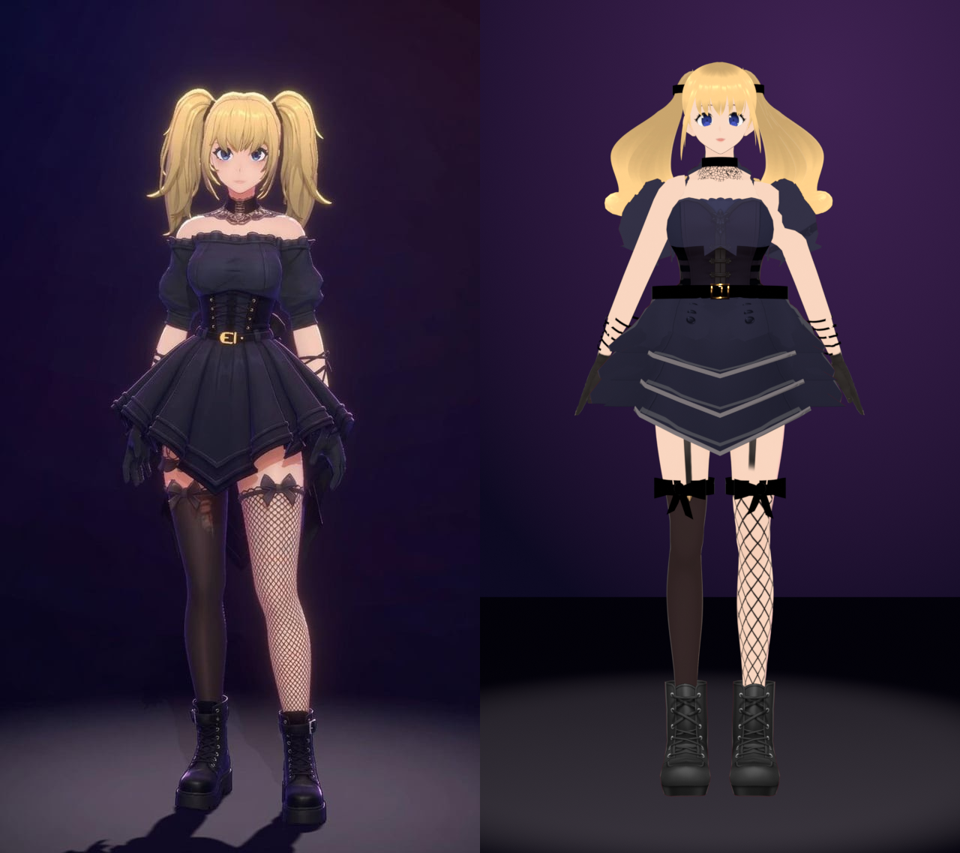
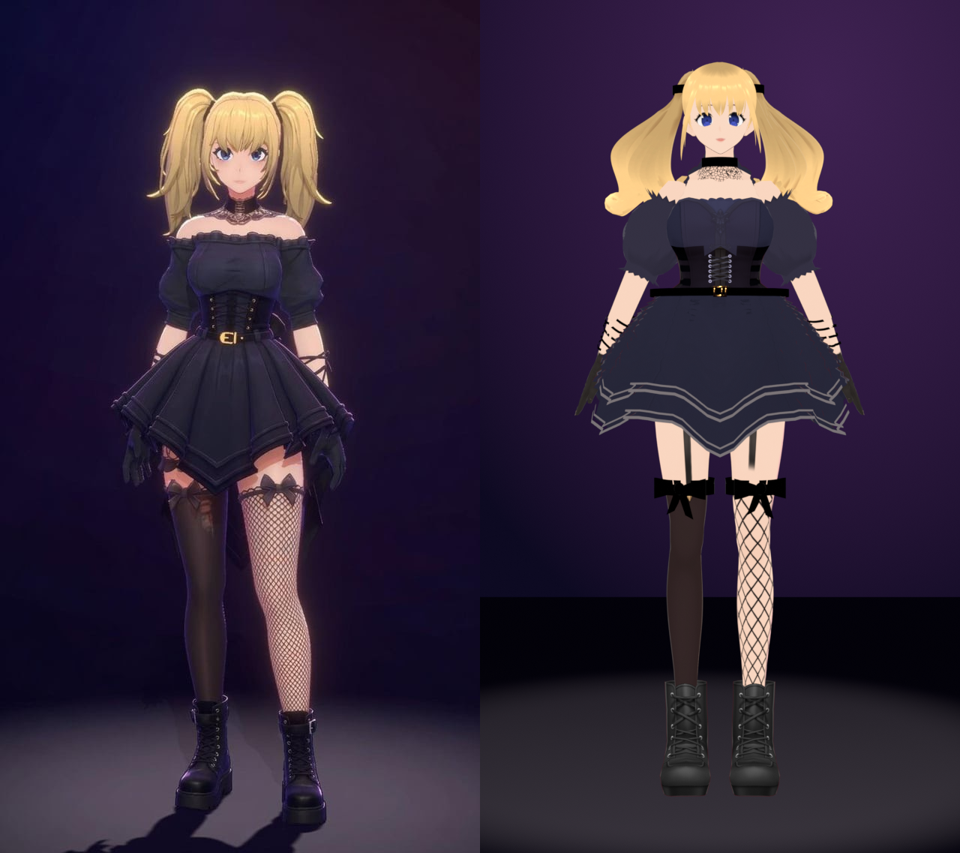
Goth agent: built puff sleeves, pleated skirt, corset lacing, fitted belt
- VRoid's sleeve is dropped and a gathered puff sleeve with frills is built
  per arm (the old one was a half-erased VRoid sleeve with a ragged edge);
  the rebuilt arm tapers inside the shoulder.
- Skirt subdivided, two layers of knife pleats flaring from the belt, six
  points, double piping, buttons and seams flattened out of the texture.
- Corset: grommets and criss-cross lacing. Belt follows the corset's real
  cross-section (an ellipse cut into it at the front), smaller buckle.
- Softer cel shading on cloth, warm ochre hair shade.

Claude-Session: https://claude.ai/code/session_011M9r3rTGgXhm4baeKDbpr3

Changed region(s): [[0.625, 0.1829, 0.875, 0.5487], [0.625, 0.3962, 0.6562, 0.4267]]

diff --git a/build/tools/blender-agent-refine.py b/build/tools/blender-agent-refine.py
@@ -5,7 +5,7 @@
 
 Runs on the scene blender-agent-avatar.py saves (its agent.blend) and edits only what VRoid Studio
 cannot: the blouse is cut into an off-shoulder top with short puffed sleeves and a frill, the bell
-skirt is re-shaped into three tiers with handkerchief points (petticoat dropped), the twin tails are
+skirt is re-shaped into two layers of knife pleats with handkerchief points (petticoat dropped), the twin tails are
 shortened, flared and waved, the cloth is re-tinted slate navy, hair and irises are hue-shifted, and
 a lace choker, a gold-buckle belt, stocking bands with bows and hair ties are added. Every added
 piece is weighted to a bone and every edited vertex keeps its weights, so the rig, the mouth shapes
@@ -20,14 +20,19 @@ from mathutils.bvhtree import BVHTree
 p = argparse.ArgumentParser()
 p.add_argument('--blend', required=True); p.add_argument('--out', required=True)
 p.add_argument('--neckline', type=float, default=1.285)     # off-shoulder line on the torso (rest pose, m)
-p.add_argument('--sleeve-start', type=float, default=-0.005)  # along the upper arm from the shoulder joint
-p.add_argument('--sleeve-end', type=float, default=0.15)
-p.add_argument('--puff', type=float, default=0.80)
+p.add_argument('--sleeve-start', type=float, default=0.03)  # along the upper arm from the shoulder joint
+p.add_argument('--sleeve-end', type=float, default=0.20)
+p.add_argument('--puff', type=float, default=0.80)        # (VRoid-sleeve mode only)
+p.add_argument('--puff-r', type=float, default=0.030)     # own sleeve: extra radius at the middle of the puff
+p.add_argument('--vroid-sleeves', action='store_true')     # keep and puff VRoid's sleeve instead of building one
 p.add_argument('--underbust', type=float, default=1.2)      # corset above this height becomes a navy bodice (0 = keep)
 p.add_argument('--skirt-len', type=float, default=0.30)     # bottom tier, between the points
 p.add_argument('--skirt-points', type=float, default=0.22)  # handkerchief point depth (fraction)
-p.add_argument('--skirt-hem', type=float, default=0.27)
-p.add_argument('--pleats', type=int, default=18); p.add_argument('--pleat-depth', type=float, default=0.05)     # bottom-tier hem radius
+p.add_argument('--skirt-hem', type=float, default=0.30)
+p.add_argument('--pleats', type=int, default=26); p.add_argument('--pleat-depth', type=float, default=0.024)
+p.add_argument('--cloth-toony', type=float, default=0.5)
+p.add_argument('--hair-shade', type=int, nargs=3, default=(150, 96, 44))   # sRGB shade colour for the hair   # VRoid cloth is 0.95 (hard cel); the reference is soft
+p.add_argument('--skirt-cuts', type=int, default=3); p.add_argument('--skirt-flare', type=float, default=0.8)     # bottom-tier hem radius
 p.add_argument('--tail-len', type=float, default=0.32)      # tie to tip, metres (--tail-tip overrides)
 p.add_argument('--tail-tip', type=float, default=0.0)
 p.add_argument('--tail-root', type=float, default=0.0);   # 0 = measure (top of the tail strands - 4 cm)
@@ -95,6 +100,7 @@ def lace_mat():
 LACE = lace_mat()
 NAVY_TRIM = pmat('Skirt trim', (26, 25, 38), rough=0.55)
 GOLD = pmat('Buckle gold', (230, 176, 84), rough=0.22, metal=1.0)
+SILVER = pmat('Grommet silver', (200, 200, 210), rough=0.3, metal=1.0)
 TOON = next(m for m in bpy.data.materials if 'N00_002_03_Tops_01_CLOTH_02' in m.name and not m.name.startswith('MToon Outline'))
 
 def rgb_to_hsv(c):
@@ -126,13 +132,13 @@ def darkest_uv(mat):
     px = np.array(img.pixels[:], dtype=np.float32).reshape(H, W, 4)
     lum = px[..., :3].mean(-1) + (px[..., 3] < 0.9) * 9
     y, x = np.unravel_index(np.argmin(lum), lum.shape); return ((x + 0.5) / W, (y + 0.5) / H)
-def rigged(name, bm, mat, bone):
+def rigged(name, bm, mat, bone, uv=None):
     me = bpy.data.meshes.new(name); bm.to_mesh(me); bm.free()
     for poly in me.polygons: poly.use_smooth = True
     ob = bpy.data.objects.new(name, me); coll.objects.link(ob); me.materials.append(mat)
-    if mat is TOON:
-        uv = me.uv_layers.new(name='UV')
-        for d in uv.data: d.uv = TOON_UV
+    if mat is TOON or uv is not None:
+        lay = me.uv_layers.new(name='UV')
+        for d in lay.data: d.uv = uv if uv is not None else TOON_UV
     vg = ob.vertex_groups.new(name=bone); vg.add(list(range(len(me.vertices))), 1.0, 'REPLACE')
     ob.parent = arm; mod = ob.modifiers.new('Armature', 'ARMATURE'); mod.object = arm
     return ob
@@ -175,7 +181,8 @@ for f in bm.faces:
     c = f.calc_center_median()
     if f.material_index in BLOUSE:
         along = abs(c.x) - X0
-        if along > a.sleeve_end or (along < a.sleeve_start and c.z > a.neckline and c.y < 0.04): kill.append(f)   # keep the back panel: VRoid built no skin under it
+        if not a.vroid_sleeves and along > -0.01 and c.z > AXZ - 0.07: kill.append(f)   # VRoid's sleeve: its front was erased in VRoid; own sleeves are built below
+        elif along > a.sleeve_end or (along < a.sleeve_start and c.z > a.neckline and (c.y < 0.04 or along > -0.03)): kill.append(f)   # keep the upper-back panel: VRoid built no skin under it; the shoulder is covered by the rebuilt arm
     elif f.material_index in PETTI or f.material_index in TIE: kill.append(f)
     elif f.material_index in CORSET and c.z < SKIRT_TOP - 0.035: kill.append(f)
 bmesh.ops.delete(bm, geom=kill, context='FACES'); print('CUT', len(kill), 'faces')
@@ -215,6 +222,8 @@ SLEEVE_AXIS = {}
 for side in (1, -1):
     sv = [v for v in sleeve if side * v.co.x > X0 + 0.008 and math.hypot(v.co.y - AXY, v.co.z - AXZ) < 0.075]
     SLEEVE_AXIS[side] = [(side * x, *slice_centre(sv, side * x)) for x in np.linspace(X0 + a.sleeve_start, X0 + a.sleeve_end, 8)] if sv else []
+if not a.vroid_sleeves:
+    sleeve = []; SLEEVE_AXIS = {1: [(X0, AXY, AXZ)], -1: [(X0, AXY, AXZ)]}
 for v in sleeve:
     along = abs(v.co.x) - X0; cy_, cz_ = centres[v]
     u = min(1, max(0, (along - a.sleeve_start) / (a.sleeve_end - a.sleeve_start)))
@@ -222,7 +231,7 @@ for v in sleeve:
     v.co.y = cy_ + (v.co.y - cy_) * k; v.co.z = cz_ + (v.co.z - cz_) * k
 # arm skin: VRoid culls the body under clothing, so the upper arm and elbow have no skin once the
 # sleeve is short. Rebuild a tube from inside the puff to the forearm's open edge, weighted across the elbow.
-SKIN = mats('Body_00_SKIN'); uvl = bm.loops.layers.uv.active
+SKIN = mats('Body_00_SKIN'); uvl = bm.loops.layers.uv.active; OWN_SLEEVES = []
 arm_skin = me.materials[min(SKIN)].copy(); arm_skin.name = 'Arm skin (no outline)'   # outlines are per-material modifiers
 me.materials.append(arm_skin); ARM_I = len(me.materials) - 1
 skin_uv = None
@@ -265,7 +274,7 @@ for side, tag in ((1, 'L'), (-1, 'R')):
     for j in range(M + 1):
         t = j / M; x = x0 + (xr - x0) * t; row = []; ay, az = centre_at(x)
         for i in range(N):
-            th = -math.pi + 2 * math.pi * i / N; tt = min(1.0, max(0.0, (x - X0 - 0.004) / (xr - X0 - 0.004))); r = (rsh if x < X0 else 0.034 + (rsh - 0.034) * 0) * (1 - tt) + R(th) * tt; xx = x
+            th = -math.pi + 2 * math.pi * i / N; tt = min(1.0, max(0.0, (x - X0 - 0.004) / (xr - X0 - 0.004))); r = (rsh * (0.55 + 0.45 * min(1.0, max(0.0, (x - x0) / (X0 - x0)))) if x < X0 else 0.034) * (1 - tt) + R(th) * tt; xx = x   # tapered start hides inside the shoulder
             v = bm.verts.new((side * xx, ay + r * math.cos(th), az + r * math.sin(th)))
             wl = min(1, max(0, (x - (elbow - 0.03)) / 0.06))               # upper arm -> forearm across the elbow
             wa = min(1, max(0, (x - (X0 - 0.01)) / 0.035))                 # shoulder -> upper arm across the joint
@@ -281,6 +290,41 @@ for side, tag in ((1, 'L'), (-1, 'R')):
             if f.normal.dot(Vector((0, c.y - (sy + ey) / 2, c.z - (sz + ez) / 2))) < 0: f.normal_flip()
             for l in f.loops: l[uvl].uv = skin_uv
     print('ARM', tag, 'rebuilt x %.3f -> %.3f  centre (%.3f,%.3f)->(%.3f,%.3f)' % (x0, xr, sy, sz, ey, ez))
+    if not a.vroid_sleeves:
+        OWN_SLEEVES.append((side, tag, centre_at))
+
+def mid_texel(mat):
+    img = lit_image(mat); W, H = img.size
+    px = np.array(img.pixels[:], dtype=np.float32).reshape(H, W, 4); op = px[..., 3] > 0.9
+    lum = np.abs(px[..., :3].mean(-1) - px[..., :3].mean(-1)[op].mean()) + (~op) * 9
+    y, x = np.unravel_index(np.argmin(lum), lum.shape); return ((x + 0.5) / W, (y + 0.5) / H)
+SLEEVE_MAT = me.materials[BOD_I] if a.underbust else me.materials[min(BLOUSE)]
+SLEEVE_UV = mid_texel(SLEEVE_MAT)
+for side, tag, centre_at in OWN_SLEEVES:
+    sb = bmesh.new(); s0, s1 = X0 + a.sleeve_start, X0 + a.sleeve_end; NS, MS = 40, 22; rows_ = []
+    for j in range(MS + 1):
+        u = j / MS; x = s0 + (s1 - s0) * u; cy2, cz2 = centre_at(x); row = []
+        bulge = math.sin(math.pi * min(1.0, u / 0.9)) ** 0.7
+        for i in range(NS):
+            th = -math.pi + 2 * math.pi * i / NS
+            r = (0.042 if u < 0.9 else 0.039) + a.puff_r * bulge
+            r *= 1 + 0.06 * math.sin(14 * th + 0.4 * j) * bulge ** 0.5          # gathers
+            row.append(sb.verts.new((side * x, cy2 + r * math.cos(th), cz2 + r * math.sin(th))))
+        rows_.append(row)
+    for j in range(MS):
+        for i in range(NS):
+            k = (i + 1) % NS; f = sb.faces.new((rows_[j][i], rows_[j][k], rows_[j + 1][k], rows_[j + 1][i])); f.normal_update()
+            c = f.calc_center_median(); cy2, cz2 = centre_at(side * c.x)
+            if f.normal.dot(Vector((0, c.y - cy2, c.z - cz2))) < 0: f.normal_flip()
+    for row, sgn, w in ((rows_[0], -1, 0.022), (rows_[-1], 1, 0.012)):          # frill on the off-shoulder line and on the cuff
+        edges = [e for e in sb.edges if all(v in set(row) for v in e.verts)]
+        ret = bmesh.ops.extrude_edge_only(sb, edges=edges)
+        for n_, g in enumerate(g for g in ret['geom'] if isinstance(g, bmesh.types.BMVert)):
+            cy2, cz2 = centre_at(side * g.co.x); rad_ = Vector((0, g.co.y - cy2, g.co.z - cz2)).normalized()
+            g.co += (Vector((side * sgn * 0.55, 0, 0)) + rad_ * 0.85).normalized() * w * (1.0 + 0.4 * (1 if n_ % 2 else -1))
+    for f in sb.faces: f.smooth = True
+    rigged('Sleeve ' + tag, sb, SLEEVE_MAT, 'J_Bip_%s_UpperArm' % tag, uv=SLEEVE_UV)
+    print('SLEEVE', tag, 'x %.3f -> %.3f' % (s0, s1))
 
 for side, tag in ((1, 'L'), (-1, 'R')):
     ul = B['J_Bip_%s_UpperLeg' % tag]; hx, hy = ul.head_local.x, ul.head_local.y
@@ -302,7 +346,7 @@ def frill(edges, out, width, zig):
 bnd = [e for e in bm.edges if e.is_boundary and e.link_faces and e.link_faces[0].material_index in BLOUSE]
 def mid(e): return (e.verts[0].co + e.verts[1].co) / 2
 neck_e = [e for e in bnd if (abs(mid(e).x) - X0 < a.sleeve_start + 0.012 and abs(mid(e).z - a.neckline) < 0.035 and mid(e).y < 0.06)
-          or abs(abs(mid(e).x) - X0 - a.sleeve_start) < 0.015]
+          or (a.vroid_sleeves and abs(abs(mid(e).x) - X0 - a.sleeve_start) < 0.015)]
 cuff_e = [e for e in bnd if abs(abs(mid(e).x) - X0 - a.sleeve_end) < 0.02]
 def neck_out(v):   # up and outward from the body
     r = Vector((v.co.x, v.co.y - 0.0, 0)).normalized(); return (Vector((0, 0, 1)) * 0.8 + r * 0.6).normalized()
@@ -311,7 +355,9 @@ def cuff_out(v):
     return (Vector((s, 0, 0)) * 0.7 + rad * 0.7).normalized()
 frill(neck_e, neck_out, 0.026, 0.5); frill(cuff_e, cuff_out, 0.014, 0.35)
 
-# skirt: three tiers with handkerchief points, a cone instead of the bell
+# skirt: two layers of knife pleats with handkerchief points and double piping, flaring from the belt
+sk_faces = [f for f in bm.faces if f.material_index in SKIRT]
+bmesh.ops.subdivide_edges(bm, edges=list({e for f in sk_faces for e in f.edges}), cuts=a.skirt_cuts, use_grid_fill=True)
 sk_faces = [f for f in bm.faces if f.material_index in SKIRT]
 sk_verts = list({v for f in sk_faces for v in f.verts})
 ztop = max(v.co.z for v in sk_verts); zbot = min(v.co.z for v in sk_verts)
@@ -323,25 +369,34 @@ prof = [sum(b) / len(b) if b else None for b in bins]
 for i in range(21):
     if prof[i] is None: prof[i] = prof[i - 1]
 r0 = prof[0]
+def pleat(th, phase):          # knife pleat: slow rise, sharp fold, in [-0.5, 0.5]
+    f = ((a.pleats * th + phase) / (2 * math.pi)) % 1.0
+    return (f / 0.72 if f < 0.72 else (1 - f) / 0.28) - 0.5
 def remap(verts, lenfac, roff, phase=0.0):
     for v in verts:
         s = (ztop - v.co.z) / (ztop - zbot); s = min(1, max(0, s))
         th = math.atan2(v.co.y - cy, v.co.x)
-        L = a.skirt_len * (1 + a.skirt_points * abs(math.cos(2 * th)) ** 3)
+        L = a.skirt_len * (1 + a.skirt_points * abs(math.sin(3 * th)) ** 5)   # points at centre front and front-sides
         depth = s * L * lenfac
-        target = r0 + (a.skirt_hem - r0) * min(1.2, depth / a.skirt_len) ** 0.7 + roff * s ** 0.6 + 0.0015 * (roff > 0)
-        target *= 1 + a.pleat_depth * s ** 0.8 * math.sin(a.pleats * th + phase)
+        target = r0 + (a.skirt_hem - r0) * min(1.2, depth / a.skirt_len) ** a.skirt_flare + roff * s ** 0.6
+        target += a.pleat_depth * (0.25 + 0.75 * s) * pleat(th, phase)
         k = target / prof[min(20, int(20 * s))]
         v.co.x *= k; v.co.y = cy + (v.co.y - cy) * k; v.co.z = ztop - depth
 tiers = [(sk_verts, 1.0, 0.0)]
-for lenfac, roff in ((0.78, 0.008), (0.55, 0.016)):
+for lenfac, roff in ((0.80, 0.014),):
     ret = bmesh.ops.duplicate(bm, geom=sk_faces + list({e for f in sk_faces for e in f.edges}) + sk_verts)
     tiers.append(([g for g in ret['geom'] if isinstance(g, bmesh.types.BMVert)], lenfac, roff))
 hems = []
 for vs, lenfac, roff in tiers:
     vset = set(vs); spre = {v: (ztop - v.co.z) / (ztop - zbot) for v in vs}
     hems.append([e for e in bm.edges if e.is_boundary and all(v in vset and spre[v] > 0.85 for v in e.verts)])
-for ti, (vs, lenfac, roff) in enumerate(tiers): remap(vs, lenfac, roff, phase=ti * math.pi / a.pleats)
+for ti, (vs, lenfac, roff) in enumerate(tiers): remap(vs, lenfac, roff, phase=ti * 0.5)
+# plain fabric: a flattened copy of the skirt texture (drops the buttons and panel seams)
+skm = me.materials[min(SKIRT)]; simg = lit_image(skm); fimg = simg.copy(); fimg.name = 'Skirt flat'
+fpx = np.array(fimg.pixels[:], dtype=np.float32).reshape(-1, 4); h_, s_, v_ = rgb_to_hsv(fpx[:, :3]); op = fpx[:, 3] > 0.5
+v_ = v_ * 0.3 + 0.7 * v_[op].mean(); fpx[:, :3] = hsv_to_rgb(h_, s_ * 0.5, v_); fimg.pixels[:] = fpx.ravel(); fimg.pack()
+for n_ in skm.node_tree.nodes:
+    if n_.type == 'TEX_IMAGE' and n_.image == simg: n_.image = fimg
 def texel_uv(mat, target):
     img = lit_image(mat); W, H = img.size
     px = np.array(img.pixels[:], dtype=np.float32).reshape(H, W, 4)
@@ -353,16 +408,27 @@ tf = [min(1.0, t / max(1e-4, c)) for t, c in zip(srgb((72, 72, 96)), image_mean_
 mtoon(trim).inputs['Lit Color'].default_value = (*tf, 1.0)
 if 'Shade Color' in mtoon(trim).inputs: mtoon(trim).inputs['Shade Color'].default_value = (*[c * 0.5 for c in tf], 1.0)
 me.materials.append(trim); CORSET_I = len(me.materials) - 1; nt = 0
-for edges in hems:
-    if not edges: continue
-    ret = bmesh.ops.extrude_edge_only(bm, edges=edges)
+SLOPE = (a.skirt_hem - r0) / a.skirt_len * 0.6
+def band(edges, up, width):
+    """A piping strip on the skirt surface, `up` metres above the hem, `width` tall."""
+    global nt
+    geom = list({v for e in edges for v in e.verts}) + edges
+    ret = bmesh.ops.duplicate(bm, geom=geom); dup = [g for g in ret['geom'] if isinstance(g, bmesh.types.BMEdge)]
     for g in ret['geom']:
         if isinstance(g, bmesh.types.BMVert):
-            r = math.hypot(g.co.x, g.co.y - cy); g.co.z += 0.009
-            k = (r - 0.009 * (a.skirt_hem - r0) / a.skirt_len * 1.3 + 0.003) / max(r, 1e-4); g.co.x *= k; g.co.y = cy + (g.co.y - cy) * k
+            r = math.hypot(g.co.x, g.co.y - cy); k = (r - up * SLOPE + 0.0025) / max(r, 1e-4)
+            g.co.x *= k; g.co.y = cy + (g.co.y - cy) * k; g.co.z += up
+    ret = bmesh.ops.extrude_edge_only(bm, edges=dup)
+    for g in ret['geom']:
+        if isinstance(g, bmesh.types.BMVert):
+            r = math.hypot(g.co.x, g.co.y - cy); k = (r - width * SLOPE) / max(r, 1e-4)
+            g.co.x *= k; g.co.y = cy + (g.co.y - cy) * k; g.co.z += width
         elif isinstance(g, bmesh.types.BMFace):
             g.material_index = CORSET_I; g.smooth = True; nt += 1
             for l in g.loops: l[uvl].uv = TRIM_UV
+for edges in hems:
+    if not edges: continue
+    band(edges, 0.0, 0.006); band(edges, 0.016, 0.004)
 print('TRIM faces', nt)
 print('SKIRT top %.3f bot %.3f r0 %.3f cy %.3f' % (ztop, zbot, r0, cy))
 bm.to_mesh(me); me.update()
@@ -471,12 +537,25 @@ cf = bmesh.new(); ring(cf, cen, r + 0.005, r + 0.005, zc - 0.026, zc - 0.009, n=
 rigged('Choker lace', cf, LACE, 'J_Bip_C_Neck'); print('CHOKER r %.3f at' % r, cen)
 # belt + gold buckle at the skirt waistband
 zb = ztop - 0.012
-pts = [v.co for v in me.vertices if abs(v.co.z - zb) < 0.012 and math.hypot(v.co.x, v.co.y) < 0.26]
-rx = max(abs(q.x) for q in pts) + 0.004; y0, y1 = min(q.y for q in pts), max(q.y for q in pts)
-bc = Vector((0, (y0 + y1) / 2, 0)); ry = (y1 - y0) / 2 + 0.004
-bb = bmesh.new(); ring(bb, bc, rx, ry, zb - 0.015, zb + 0.015, n=72); rigged('Belt', bb, TOON, 'J_Bip_C_Hips')
+SKV = {i for p_ in me.polygons if p_.material_index in SKIRT for i in p_.vertices}
+CV = {i for p_ in me.polygons if p_.material_index in CORSET for i in p_.vertices}
+# the belt follows the corset's real cross-section at its height (an ellipse cuts in at the front)
+bpts = [me.vertices[i].co for i in (CV | SKV) if abs(me.vertices[i].co.z - zb) < 0.012]
+bc = Vector((0, sum(q.y for q in bpts) / len(bpts), 0))
+angs = sorted((math.atan2(q.y - bc.y, q.x), math.hypot(q.x, q.y - bc.y)) for q in bpts)
+def belt_r(th, win=0.20):
+    near = [r_ for t_, r_ in angs if abs(math.remainder(t_ - th, 2 * math.pi)) < win]
+    return (max(near) if near else max(r_ for _, r_ in angs)) + 0.005
+bb = bmesh.new(); NB = 72; top_, bot_ = [], []
+for i in range(NB):
+    th = 2 * math.pi * i / NB; r_ = belt_r(th)
+    for lst, dz in ((bot_, -0.009), (top_, 0.009)): lst.append(bb.verts.new((r_ * math.cos(th), bc.y + r_ * math.sin(th), zb + dz)))
+for i in range(NB):
+    j = (i + 1) % NB; bb.faces.new((bot_[i], bot_[j], top_[j], top_[i]))
+rigged('Belt', bb, TOON, 'J_Bip_C_Hips')
+ry = belt_r(-math.pi / 2) - 0.001
 gb = bmesh.new(); fy = bc.y - ry - 0.002
-for (w, h, x0) in ((0.042, 0.034, 0.0),):
+for (w, h, x0) in ((0.030, 0.024, 0.0),):
     t = 0.005   # frame bars: top, bottom, left, right, centre prong
     for (cx, cz, sx, sz) in ((0, h / 2 - t / 2, w, t), (0, -h / 2 + t / 2, w, t), (-w / 2 + t / 2, 0, t, h), (w / 2 - t / 2, 0, t, h), (0.004, 0, t * 0.8, h * 0.8)):
         m = bmesh.ops.create_cube(gb, size=1.0)['verts']
@@ -527,6 +606,36 @@ for side, bone in ((1, 'J_Bip_L_UpperLeg'), (-1, 'J_Bip_R_UpperLeg')):
     th = math.radians(-90 + side * 14); nrm = Vector((math.cos(th), math.sin(th), 0))
     bw = bmesh.new(); bow(bw, cen + nrm * (r + 0.010) + Vector((0, 0, 0.006)), nrm, 1.6)
     rigged('Stocking bow ' + ('L' if side > 0 else 'R'), bw, TOON, bone)
+# corset lacing: grommets in two columns down the front and a criss-cross ribbon between them
+dg_ = bpy.context.evaluated_depsgraph_get(); bvh_c = BVHTree.FromBMesh(bm) if False else None
+cor_faces = [p_ for p_ in me.polygons if p_.material_index in CORSET]
+if cor_faces:
+    from mathutils.bvhtree import BVHTree as _B
+    cbvh = _B.FromPolygons([v.co for v in me.vertices], [p_.vertices for p_ in cor_faces])
+    zc0 = ztop + 0.012; zc1 = (a.underbust or ztop + 0.10) - 0.004; n_ = 7
+    def front(x, z):
+        loc, nrm, fi, d = cbvh.ray_cast(Vector((x, -0.6, z)), Vector((0, 1, 0)))
+        return (loc + Vector((0, -0.004, 0))) if loc else None
+    cols = {sgn: [front(sgn * 0.022, zc0 + (zc1 - zc0) * i / (n_ - 1)) for i in range(n_)] for sgn in (-1, 1)}
+    if all(p_ is not None for sgn in cols for p_ in cols[sgn]):
+        gb_ = bmesh.new()
+        for sgn in cols:
+            for c_ in cols[sgn]:
+                ring_v = bmesh.ops.create_circle(gb_, cap_ends=False, segments=10, radius=0.0035)['verts']
+                inner = bmesh.ops.create_circle(gb_, cap_ends=False, segments=10, radius=0.0018)['verts']
+                for v_ in ring_v + inner: v_.co = Vector((c_.x + v_.co.x, c_.y - 0.0005, c_.z + v_.co.y))
+                for i_ in range(10): gb_.faces.new((ring_v[i_], ring_v[(i_ + 1) % 10], inner[(i_ + 1) % 10], inner[i_]))
+        rigged('Corset grommets', gb_, SILVER, 'J_Bip_C_Spine')
+        lb_ = bmesh.new(); w_ = 0.0016
+        for i_ in range(n_ - 1):
+            for sgn in (-1, 1):
+                p0, p1 = cols[sgn][i_], cols[-sgn][i_ + 1]; d_ = (p1 - p0).normalized(); side_ = d_.cross(Vector((0, -1, 0))).normalized() * w_
+                q = [lb_.verts.new(p0 - side_ + Vector((0, -0.0015 * (sgn > 0), 0))), lb_.verts.new(p0 + side_ + Vector((0, -0.0015 * (sgn > 0), 0))),
+                     lb_.verts.new(p1 + side_ + Vector((0, -0.0015 * (sgn > 0), 0))), lb_.verts.new(p1 - side_ + Vector((0, -0.0015 * (sgn > 0), 0)))]
+                lb_.faces.new(q)
+        rigged('Corset lacing', lb_, SATIN, 'J_Bip_C_Spine'); print('CORSET LACING', n_, 'rows from %.3f to %.3f' % (zc0, zc1))
+    else: print('CORSET LACING skipped: front not found')
+
 # forearm lacing: two crossing helices of black ribbon from the wrist up the forearm
 for side, tag in ((1, 'L'), (-1, 'R')):
     fv = [me.vertices[i].co for i in skin_v if 0.40 < side * me.vertices[i].co.x < 0.56 and math.hypot(me.vertices[i].co.y - 0.029, me.vertices[i].co.z - 1.336 - DZ) < 0.07]
@@ -566,6 +675,23 @@ if a.arm_out:
         pb = arm.pose.bones['J_Bip_%s_UpperArm' % tag]; rest = pb.bone.matrix_local.to_3x3()
         R = Matrix.Rotation(math.radians(sgn * (68 - a.arm_out)), 3, 'Y')
         pb.rotation_mode = 'QUATERNION'; pb.rotation_quaternion = (rest.inverted() @ R @ rest).to_quaternion()
+# softer cel shading on every cloth material, so folds and pleats read (VRoid ships 0.95)
+nsoft = 0
+for m in bpy.data.materials:
+    if m.name.startswith('MToon Outline') or not m.node_tree: continue
+    if any(k in m.name for k in ('Tops_01_CLOTH', 'Bodice', 'Skirt trim', 'Shoes_01_CLOTH')):
+        g = mtoon(m)
+        if g and 'Shading Toony' in g.inputs:
+            g.inputs['Shading Toony'].default_value = a.cloth_toony; g.inputs['Shading Shift'].default_value = 0.05; nsoft += 1
+print('SOFT SHADING on', nsoft, 'materials')
+# hair: warm ochre shade and softer cel so clumps and strands read (the reference's hair has deep gold shadows)
+for m in bpy.data.materials:
+    if 'Hair_00_HAIR' in m.name and not m.name.startswith('MToon Outline') and m.node_tree:
+        g = mtoon(m)
+        if g:
+            g.inputs['Shade Color'].default_value = (*srgb(a.hair_shade), 1.0)
+            if 'Shading Toony' in g.inputs: g.inputs['Shading Toony'].default_value = 0.6; g.inputs['Shading Shift'].default_value = 0.15
+            print('HAIR SHADE', m.name[:30], a.hair_shade)
 # no outline shell on the body skin: VRoid removed the skin under the old collar and sleeves, and the
 # inverted-hull outline shows through those gaps as dark red. The reference has no skin contour lines anyway.
 for md in list(body.modifiers):

diff --git a/design/blender/agent/README.md b/design/blender/agent/README.md
@@ -118,17 +118,25 @@ What VRoid Studio cannot do is done by `build/tools/blender-agent-refine.py`,
 which runs on the scene the avatar script saves and edits it toward the
 reference picture:
 
-- **Top**: the blouse is cut into an off-shoulder top with short sleeves,
-  puffed about the sleeve's own centre line, with a frill extruded from the
-  cut edges. VRoid removes the body under clothing at export, so the upper
+- **Top**: VRoid's sleeve is removed (its front was erased in VRoid) and a
+  gathered puff sleeve is built on each upper arm from the shoulder joint
+  to above the elbow, with frills on the off-shoulder line and the cuff,
+  in the bodice's navy. `--vroid-sleeves` keeps and puffs VRoid's instead. VRoid removes the body under clothing at export, so the upper
   arm is rebuilt as a skin tube from over the shoulder to the forearm's open
   edge, weighted across the elbow. The blouse's back panel stays, because
   there is no skin under it either.
 - **Bodice**: the corset above the underbust line becomes navy cloth (its
   texture flattened and recoloured), with a ruffle on its top edge, so the
   black corset reads as an underbust piece over a navy dress.
-- **Skirt**: the bell skirt becomes three tiers with handkerchief points and
-  light piping on each hem; the white petticoat is dropped.
+- **Skirt**: the bell skirt is subdivided and becomes two layers of knife
+  pleats flaring from the belt, with six handkerchief points and double
+  piping on each hem; its buttons and panel seams are flattened out of the
+  texture and the white petticoat is dropped.
+- **Corset and belt**: silver grommets and a criss-cross lacing down the
+  front; the belt follows the corset's real cross-section with a small
+  gold buckle.
+- **Shading**: cloth cel shading is softened (VRoid ships it nearly hard)
+  so pleats and gathers read, and the hair gets a warm ochre shade.
 - **Hair**: the twin tails are re-pivoted at their real gather point on the
   head top (measured per model: the top of the strands less 4 cm), cut to
   32 cm, pulled in, widened through the middle, lightly waved and flared,
@@ -166,5 +174,4 @@ blender -b --python build/tools/blender-agent-avatar.py -- --blend R/agent.blend
 `vroid-full.png` is the character sheet, `vroid-compare.png` puts it
 beside the reference and `vroid-face-compare.png` does the same for the head (`vroid-bust.png` / `vroid-speaking.png` are from the
 earlier, unrefined clip). What still differs: the reference's hair is denser strand for strand and
-its skirt tiers are separate ruffles rather than tiers cut from one bell;
-the reference's sleeves start a little lower, leaving the shoulder caps bare.
+its skirt layers are separate sewn ruffles with a deeper stack of piping.
